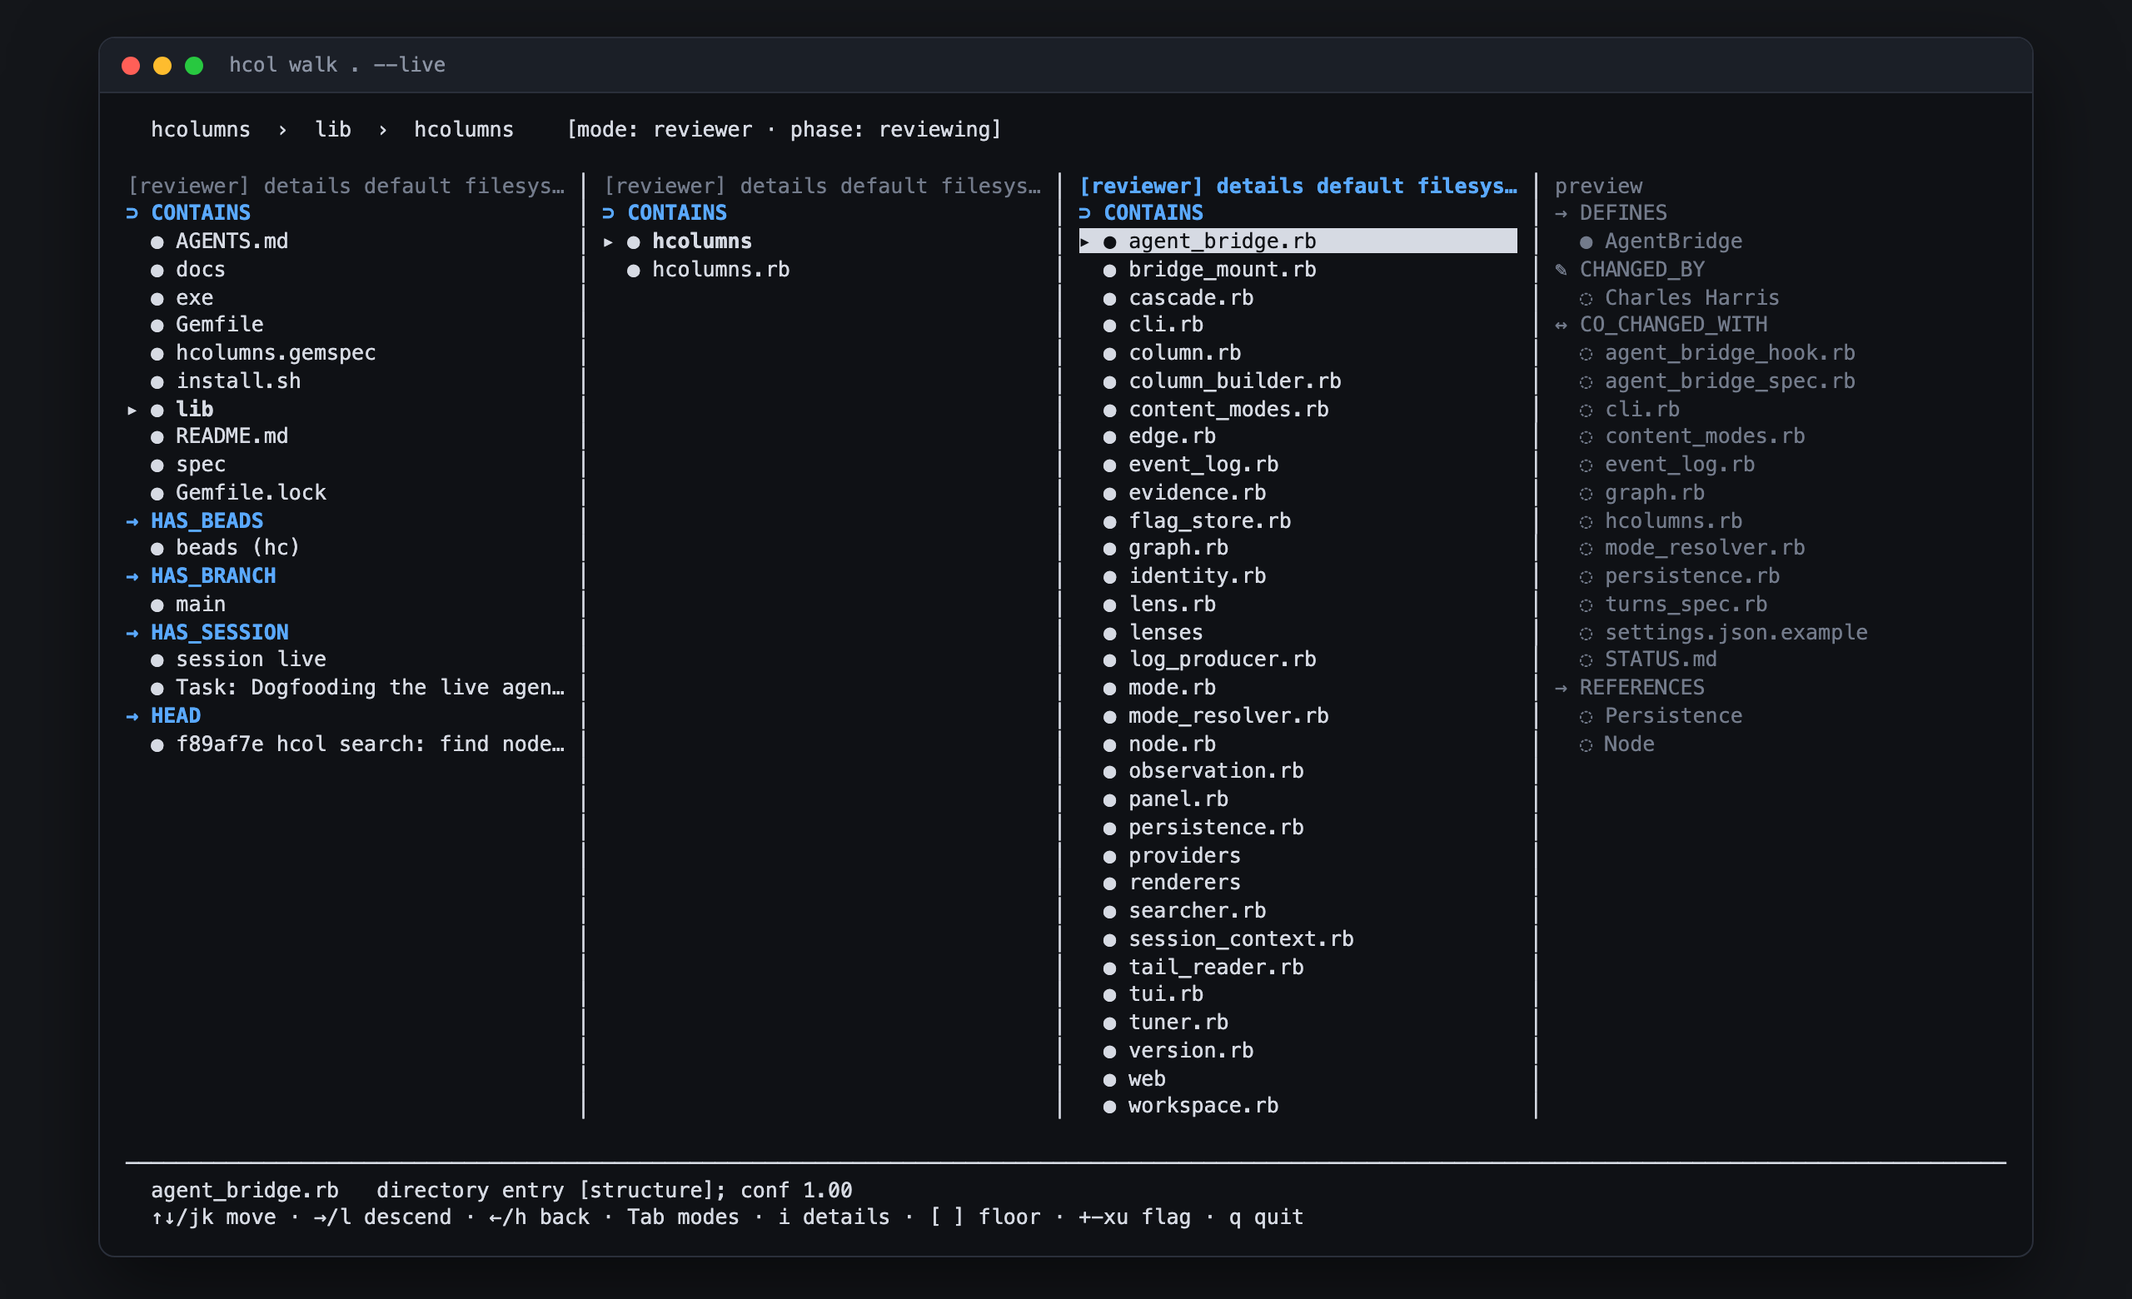
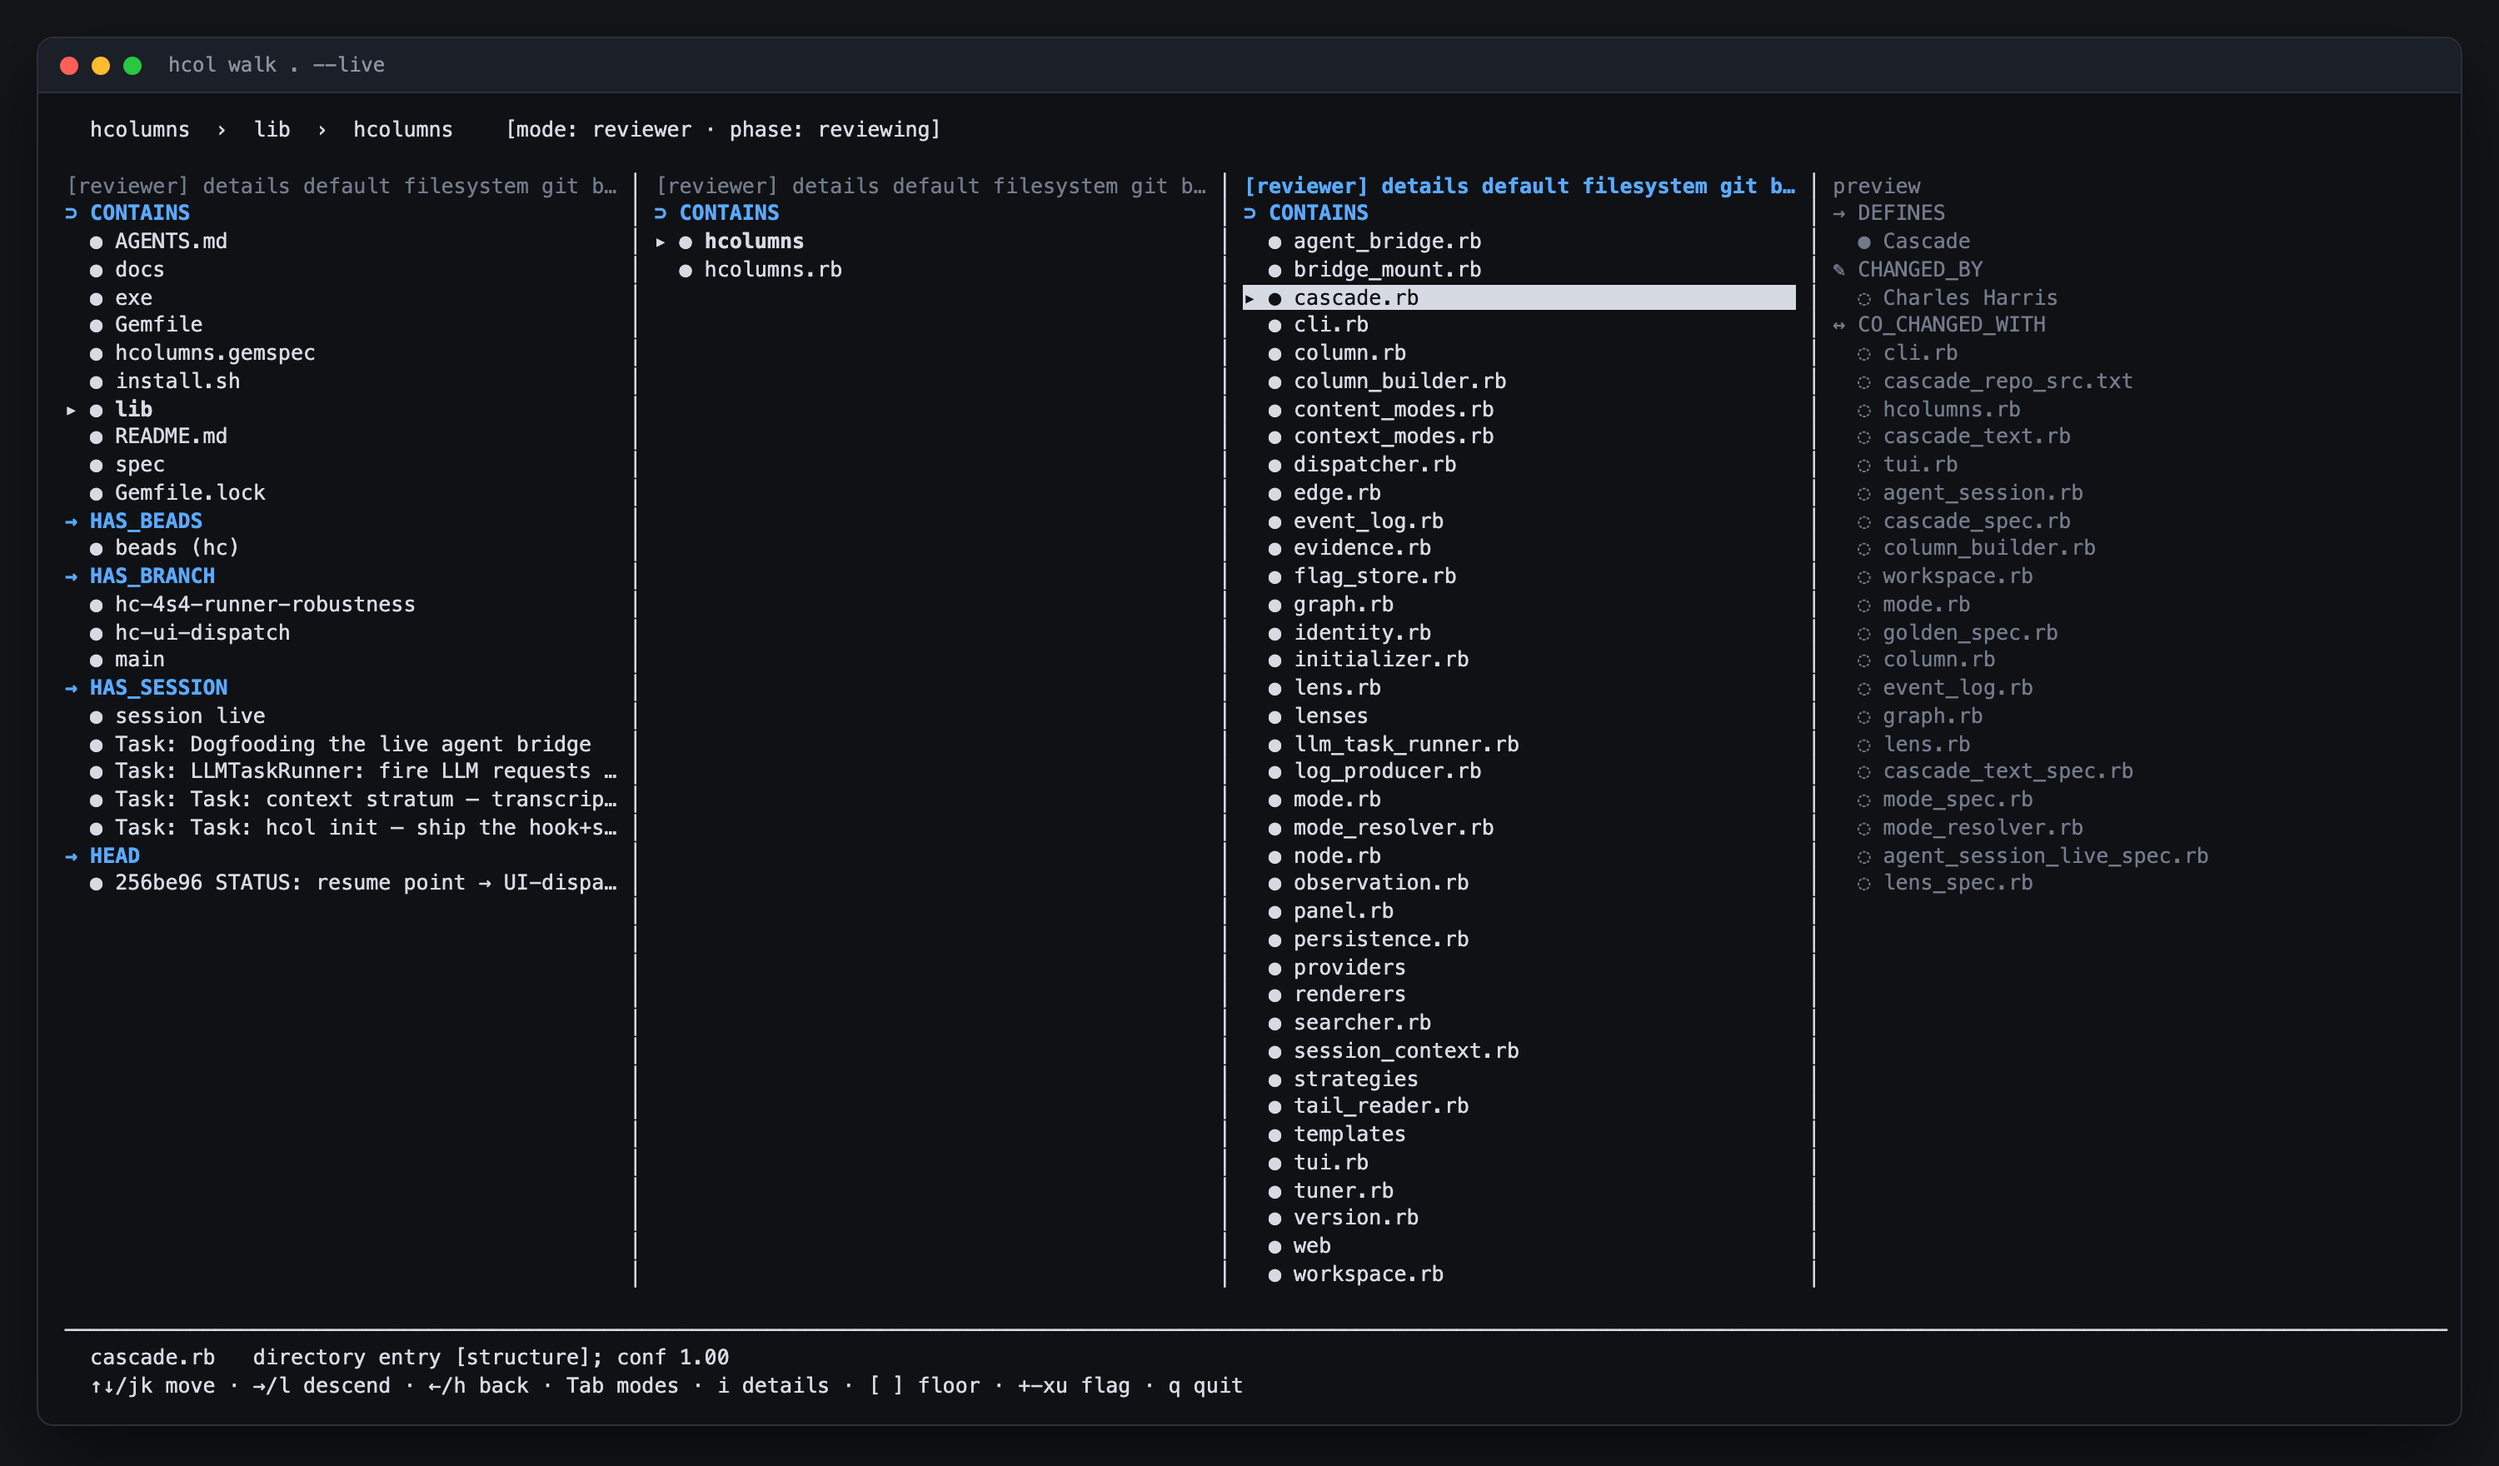
docs: refresh README screenshots + document the dispatch loop
Recapture all TUI/web screenshots live from this repo, add web-advice
(the advice tab + ▷ dispatch fix button), and rewrite the README: a
Contents TOC, a new "Dispatching work" section (ask/fix/run/retry + the
browser ask box), a Commands reference table, --live/--port run details,
the transcript stratum, and the updated test count (256 → 345).

Changed region(s): [[0.0312, 0.0308, 0.9688, 0.9538]]

diff --git a/README.md b/README.md
@@ -10,17 +10,27 @@ is `CONTAINS`.
 
 Point it at a real repo and it composes one graph out of the strata that are
 already there — the **filesystem**, **git** history, the **beads** issue DB, the
-**Ruby** code itself, and the **live agent session** editing it — then lets you
-walk across them. A directory's children, the commit that last touched a line,
-the issue that asked for it, and the turn an agent did it in are all just edges.
+**Ruby** code itself, the agent **transcript**, and the **live agent session**
+editing it — then lets you walk across them. A directory's children, the commit
+that last touched a line, the issue that asked for it, and the turn an agent did
+it in are all just edges.
 
 <p align="center">
-  <img src="docs/images/web-cascade.png" alt="hcol serve — four columns cascading from the repo root through lib/ to a source file, each with relation groups and mode tabs" width="100%">
-  <em>Every screenshot here is this repo, walked by <code>hcol</code>.</em>
+  <img src="docs/images/web-cascade.png" alt="hcol serve — four columns cascading from the repo root through lib/ to a source file, each with relation groups and mode tabs; an ask box in the header" width="100%">
+  <br><em>Every screenshot here is this repo, walked by <code>hcol</code> — live, while it was being built.</em>
 </p>
 
 A Ruby playground for the idea. See [`docs/DESIGN.md`](docs/DESIGN.md) for the
 charter and [`docs/STATUS.md`](docs/STATUS.md) for where the work is.
+
+## Contents
+
+- [Install](#install) · [Try it in 30 seconds](#try-it-in-30-seconds)
+- [Walking a real repo](#walking-a-real-repo) — [terminal](#in-the-terminal) · [browser](#in-a-browser) · [tabs](#tabs-are-the-nodes-modes) · [lenses](#lenses)
+- [Watching an agent work](#watching-an-agent-work) — the live session
+- [Dispatching work](#dispatching-work) — ask / run / fix, from the CLI or the browser
+- [For agents (and scripts)](#for-agents-and-scripts) · [Commands](#commands)
+- [How it works](#how-it-works) · [Development](#development)
 
 ## Install
 
@@ -29,7 +39,7 @@ Ruby **>= 3.0**. No runtime dependencies.
 ```sh
 git clone https://github.com/charlesharris/hcolumns && cd hcolumns
 bundle install
-bundle exec rspec        # 256 examples, golden-tested
+bundle exec rspec        # 345 examples, golden-tested
 
 ./install.sh             # build + install the gem, so `hcol` is on your PATH
 ./install.sh -s          # …skipping tests
@@ -37,7 +47,8 @@ bundle exec rspec        # 256 examples, golden-tested
 
 `install.sh` is idempotent — run it as often as you like; it always leaves
 exactly the current version installed. For a dev run **without** installing, use
-`./exe/hcol` (or `bundle exec ruby -Ilib exe/hcol`) anywhere below.
+`./exe/hcol` (or `bundle exec ruby -Ilib exe/hcol`) anywhere below. After a CLI
+change, `./install.sh` again — a stale gem means `hcol serve` runs old code.
 
 > The **beads** provider is the one soft dependency: it reads the `bd` issue
 > database over a MySQL wire connection and needs the `ruby-mysql` gem (already
@@ -73,17 +84,19 @@ of an edge, derived from how much evidence backs it. The bar is confidence.
 
 Point either front-end at a directory. Nothing is indexed up front: providers
 are **lazy**, so a node's neighbors are only loaded when its column is first
-asked for.
+asked for. The two front-ends render the *same* serialized panel — the data
+contract lives in the graph, not in either renderer.
 
 ### In the terminal
 
 ```sh
 hcol walk .              # interactively walk the cwd
+hcol walk . --live       # …and fold in the live agent session (see below)
 hcol explore lib         # print one ranked column, no TUI
 ```
 
 <p align="center">
-  <img src="docs/images/tui-walk.png" alt="hcol walk in a terminal: breadcrumb, three cascading columns, and a preview pane showing DEFINES / CHANGED_BY / CO_CHANGED_WITH for the selected file" width="100%">
+  <img src="docs/images/tui-walk.png" alt="hcol walk in a terminal: breadcrumb 'hcolumns › lib › hcolumns [mode: reviewer · phase: reviewing]', three cascading columns, and a preview pane showing DEFINES / CHANGED_BY / CO_CHANGED_WITH for the selected file, with a keybinding legend at the bottom" width="100%">
 </p>
 
 | key | does |
@@ -102,11 +115,13 @@ hcol explore lib         # print one ranked column, no TUI
 ```sh
 hcol serve .             # http://127.0.0.1:4567
 hcol serve . --port 8080
+hcol serve . --live      # …with the live agent session, streamed over SSE
 ```
 
 Same columns, same data contract — the Panel/Node model serializes to JSON and a
-zero-dep HTTP server renders it. Click an item to descend; the tabs are the
-node's modes. Nothing about the graph lives in either renderer.
+**zero-dep** HTTP server (raw `TCPServer`, no Sinatra/Rack) renders it. Click an
+item to descend; the tabs are the node's modes. Flag the selection with the same
+`+ - x u` keys as the TUI. Nothing about the graph lives in either renderer.
 
 ### Tabs are the node's modes
 
@@ -120,7 +135,7 @@ that last touched it, and every line is walkable. Descend a line to that
 commit's change *scoped to this file*, then zoom out to the whole diff.
 
 <p align="center">
-  <img src="docs/images/web-blame.png" alt="The blame tab: each line of cli.rb tagged with the short SHA of the commit that last touched it" width="100%">
+  <img src="docs/images/web-blame.png" alt="The blame tab: the cascade ending in cli.rb's blame view, each line tagged with the short SHA of the commit that last touched it, line numbers and source preserved" width="100%">
 </p>
 
 ### Lenses
@@ -147,7 +162,7 @@ already there, so it's safe to run on a repo you've already set up):
 ```sh
 cd ~/src/some-project
 hcol init                # writes .claude/hooks/, .claude/skills/hcol/, settings.json
-hcol serve .             # that repo's composed graph + its live session, over SSE
+hcol serve . --live      # that repo's composed graph + its live session, over SSE
 hcol walk . --live       # …same, in the terminal
 ```
 
@@ -156,11 +171,12 @@ you've customized is backed up first). In *this* repo the bridge is already
 wired, dogfood-style: `cp .claude/settings.json.example .claude/settings.json`.
 
 <p align="center">
-  <img src="docs/images/web-session.png" alt="The session's turns tab: token totals across 26 turns, and the nodes produced by the current turn" width="100%">
+  <img src="docs/images/web-session.png" alt="The session's turns tab: 173.7M tokens in / 765k out across 51 turns, the current turn labelled 'UPDATE THE README…', and the nodes that turn produced" width="100%">
 </p>
 
 The `turns` tab groups the work per prompt, with token usage per turn. (That
-screenshot is the session that wrote this README, mid-sentence.)
+screenshot is the very session that wrote this README, mid-sentence — turn 51,
+"update the README…".)
 
 The hook is a thin shim over `hcol bridge`, which takes a neutral vocabulary —
 so *any* agent can drive it, one event per argument or per stdin line:
@@ -187,6 +203,39 @@ hcol serve out.jsonl --live      # …and a consumer tails it: columns grow as l
 
 Concurrency lives *between processes* (the file), so the in-memory log stays
 single-writer and needs no mutex.
+
+## Dispatching work
+
+Reading the graph is half of it; the other half is **asking for a change and
+watching it land in the same columns**. A click or a command queues a **Request**
+onto the bridge log; a runner picks it up, drives Claude Code, and its work folds
+back into the graph — the task flipping `◌ → ◐ → ✓` in place as it goes.
+
+The **context** stratum makes this pointed. A transcript's `advice` tab ranks the
+fixes worth making by what each would save — `▲` marks the ones with a concrete
+fix an agent could act on. Click one and it gets a **▷ dispatch fix** button: one
+click queues that fix as a Request.
+
+<p align="center">
+  <img src="docs/images/web-advice.png" alt="The advice tab: SUGGESTIONS ranked by estimated saving, one selected to reveal a '▷ dispatch fix' button and its advice — 'command output arrived whole; pipe it, the whole dump is re-sent every turn'. The header carries an 'ask…' box that queues an arbitrary request." width="80%">
+</p>
+
+The header's **ask box** is the same thing for an arbitrary prompt. Both are the
+browser echo of the CLI:
+
+```sh
+hcol ask "add a --json flag to hcol search"   # queue a Request (nothing runs yet)
+hcol fix <suggestion-id>                       # queue a specific fix (id from an `advice` tab)
+hcol run                                        # execute every OUTSTANDING request…
+hcol run --echo                                # …or dry-run with a test double (no tokens)
+hcol retry [task-key]                           # re-run failed work as a fresh task
+```
+
+`hcol run` drives Claude Code in a **tmux pane you can attach to and take over**;
+each task flips `◌ → ◐ → ✓` in the columns as it runs. Queuing and running are
+deliberately separate: a click never spends tokens on its own — **you** decide
+when (and whether) to run what's queued, and `retry` is user-initiated too (the
+runner never silently re-runs a stall).
 
 ## For agents (and scripts)
 
@@ -218,10 +267,30 @@ never silent** — a capped search says so rather than reading as "searched
 everything". There's an [`hcol` skill](lib/hcolumns/templates/SKILL.md) that teaches
 an agent this surface — `hcol init` installs it into any repo.
 
+## Commands
+
+| command | what it does |
+| --- | --- |
+| `hcol explore [node\|path]` | print one ranked column (no TUI) |
+| `hcol walk [dir\|path] [--live]` | interactively walk the cascade |
+| `hcol serve [dir\|path] [--live] [--port N]` | walk the columns in a browser |
+| `hcol inspect [node\|path]` | data + provenance + confidence math for one node |
+| `hcol search <term> [--type T]` | find nodes across every stratum |
+| `hcol json [node\|path] [--mode M]` | a node's panel + modes as JSON |
+| `hcol flag <path> <up\|down\|exclude\|clear>` | flag a node without the TUI |
+| `hcol init [dir]` | wire the agent bridge into a repo |
+| `hcol bridge --log <f> [events…]` | append session events in a neutral vocab |
+| `hcol ask "<prompt>"` · `hcol fix <id>` | queue a Request |
+| `hcol run [--echo] [--timeout N]` · `hcol retry [key]` | execute / re-run queued work |
+| `hcol save \| produce <session> <f.jsonl>` | snapshot / stream the event log |
+
+Lens flags on `explore`/`walk`: `--role NAME`, `--strict`, `--floor N`. Run
+`hcol help` for the full surface.
+
 ## How it works
 
 ```
-providers append Observations            (filesystem, git, naming-rules, beads, ruby, a human, an agent, ...)
+providers append Observations            (filesystem, git, naming-rules, beads, ruby, transcript, a human, an agent, ...)
    └─> Graph folds them into Edges        (derived confidence + maturity + provenance)
         └─> Tuner scores each edge         (re-weight, don't toggle)
              └─> ColumnBuilder groups & ranks
@@ -252,12 +321,13 @@ the day it lands.
 | **git** | `CO_CHANGED_WITH`, `CHANGED_BY`, branches, commits, per-line blame |
 | **ruby** | `DEFINES`, `DEPENDS_ON`, `REFERENCES`, methods |
 | **beads** | the `bd` issue DB: dependencies as typed edges, `TOUCHES` onto real files |
-| **agent session** | the live session: turns, proposed changes, test runs, tokens |
+| **transcript** | the agent's own context: `blocks` by billed cost, and `advice` — the fixes worth making |
+| **agent session** | the live session: turns, proposed changes, test runs, tokens, dispatched tasks |
 
 ## Development
 
 ```sh
-bundle exec rspec                        # the whole suite
+bundle exec rspec                        # the whole suite (345 examples)
 bundle exec rspec spec/searcher_spec.rb  # one file
 ./install.sh                             # reinstall `hcol` after a change
 ```
@@ -268,7 +338,7 @@ bundle exec rspec spec/searcher_spec.rb  # one file
 `web/` serving the browser. Specs mirror that layout under `spec/`.
 
 The repo dogfoods itself: it tracks its own work in `bd` (prefix `hc`), and the
-live session above is this project being built.
+live session in the screenshots above is this project being built.
 
 ## Not yet
 
